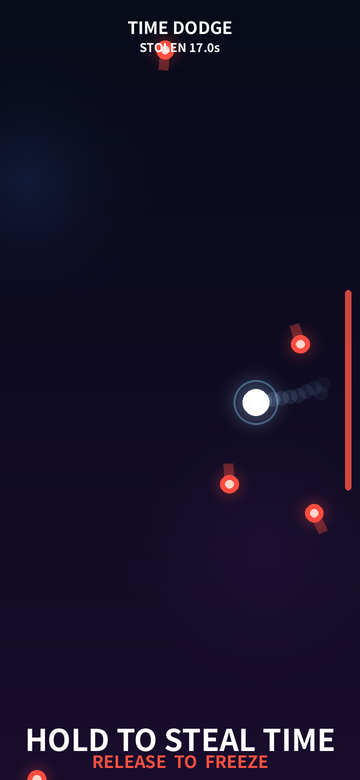
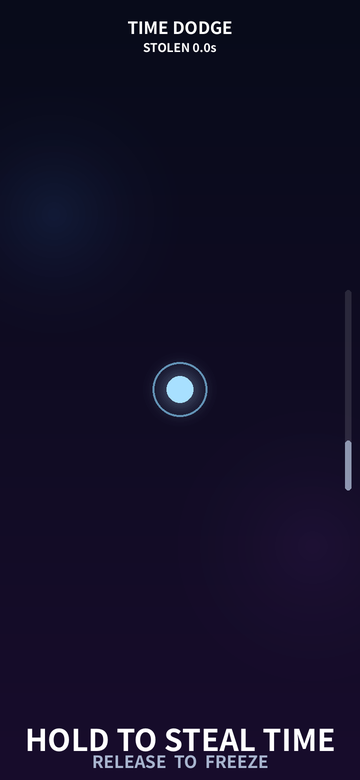
feat(timedodge): 2.5D 陨石版 —— 深度层 + 陨石贴图 + 素材管线跟进
方案 A（伪 3D）：敌人换为程序生成的坑洼陨石贴图（灰阶可染色，保留
敌种颜色与冻结电报），新增深度层——陨石从深空浮出（z=1 起，小而暗、
视差慢漂），逼近游玩平面时放大增亮加速，仅近平面（z<=0.35）参与
碰撞与擦弹；自旋随世界时间（冻结即停转，天然时停电报）。

平衡跟进：深度缓冲降低了压迫感 -> 浮出速率 1.2/s、远景漂移下限 0.5，
试炼星级阈值按陨石版专家线重标（lv10 22.4s 成为压轴墙）。

素材管线：录制器记录旋转，渲染器把敌人画成带陨石坑的自旋岩块。

Claude-Session: https://claude.ai/code/session_01S1VWoFaZm6tKkz28VdLcnu

diff --git a/tools/render_timedodge_gif.py b/tools/render_timedodge_gif.py
@@ -112,7 +112,7 @@ def main(src=SRC, outname=None, extras=True):
         prev_alive = alive
 
         ents = {e[0]: e for e in fr["ents"]}
-        cur_pos = {eid: (e[1], e[2]) for eid, e in ents.items() if e[9] == "orb"}
+        cur_pos = {eid: (e[1], e[2]) for eid, e in ents.items() if e[9] in ("orb", "meteor")}
         take = idx % 3 == 0 or (death_frame is not None and idx - death_frame < 3)
         if not take:
             prev_pos = cur_pos
@@ -139,10 +139,9 @@ def main(src=SRC, outname=None, extras=True):
         for eid, e in ents.items():
             tex = e[9]
             if tex == "orb":
-                if abs(e[3] - 26) < 2:
-                    player = e
-                else:
-                    foes.append(e)
+                player = e
+            elif tex == "meteor":
+                foes.append(e)
             elif tex == "text":
                 texts.append(e)
             elif tex == "gem":
@@ -179,18 +178,30 @@ def main(src=SRC, outname=None, extras=True):
             x, y = wx(e[1], ox), wy(e[2], oy)
             r = e[3] * SCALE * 0.55
             col = (int(e[5] * 255), int(e[6] * 255), int(e[7] * 255))
+            rot = e[11] if len(e) > 11 else 0.0
             pp = prev_pos.get(e[0])
             if pp:                                # speed streak ∝ motion
                 px_, py_ = wx(pp[0], ox), wy(pp[1], oy)
                 dx, dy = x - px_, y - py_
                 dr.line([x - dx * 3, y - dy * 3, x, y],
-                        fill=col + (90,), width=int(r * 1.1))
-            g = glow(int(r * 3), col, 100)
+                        fill=col + (90,), width=max(1, int(r * 1.1)))
+            g = glow(max(2, int(r * 3)), col, 90)
             im.paste(g, (int(x) - g.size[0] // 2, int(y) - g.size[1] // 2), g)
             dr = ImageDraw.Draw(im, "RGBA")
-            dr.ellipse([x - r, y - r, x + r, y + r], fill=col + (255,))
-            dr.ellipse([x - r * 0.45, y - r * 0.45, x + r * 0.45, y + r * 0.45],
-                       fill=(255, 230, 220, 230))
+            # lumpy rotating rock: radius jitter seeded by entity id
+            pts, dark = [], []
+            for k in range(9):
+                a = rot + k * math.tau / 9
+                jig = 0.78 + 0.22 * math.sin(e[0] * 2.7 + k * 2.1)
+                pts.append((x + r * jig * math.cos(a), y + r * jig * math.sin(a)))
+            dr.polygon(pts, fill=col + (255,))
+            ca = rot * 0.7 + e[0]
+            for (cr, off) in ((0.32, 0.35), (0.2, -0.4)):   # craters
+                cxx = x + r * off * math.cos(ca)
+                cyy = y + r * off * math.sin(ca)
+                rr = r * cr
+                dr.ellipse([cxx - rr, cyy - rr, cxx + rr, cyy + rr],
+                           fill=(int(col[0] * .55), int(col[1] * .55), int(col[2] * .55), 220))
 
         if player is not None and alive:
             x, y = wx(player[1], ox), wy(player[2], oy)

diff --git a/tools/gen_textures.py b/tools/gen_textures.py
@@ -65,6 +65,28 @@ def orb(x, y):
     return (v, v, v, 255)
 
 
+def meteor(x, y):
+    """Lumpy cratered rock, grayscale (tinted per foe kind at runtime)."""
+    cx, cy = 15.5, 15.5
+    dx, dy = x - cx, y - cy
+    r = math.hypot(dx, dy)
+    ang = math.atan2(dy, dx)
+    edge = 13.8 + 1.6 * math.sin(ang * 3 + 1.3) + 1.1 * math.sin(ang * 5 - 0.7)
+    if r > edge:
+        return (0, 0, 0, 0)
+    d = r / edge
+    lum = 200 - 90 * d * d
+    lum += 45 * max(0.0, -(dx * -0.6 + dy * -0.6) / max(edge, 1))  # upper-left light
+    for (px_, py_, pr) in ((10, 12, 3.4), (21, 9, 2.5), (18, 21, 3.9), (8, 22, 2.3)):
+        dd = math.hypot(x - px_, y - py_)
+        if dd < pr:
+            lum -= 60 * (1 - dd / pr)
+        elif dd < pr + 1.3:
+            lum += 20
+    v = clampb(lum)
+    return (v, v, v, 255)
+
+
 def paddle(x, y):
     w, h = 24, 24
     if not rounded(x, y, w, h, 6):
@@ -179,6 +201,7 @@ def tile(x, y):
 
 SPRITES = {
     "orb": (32, 32, orb),
+    "meteor": (32, 32, meteor),
     "paddle": (24, 24, paddle),
     "brick": (32, 16, brick),
     "food": (24, 24, food),
